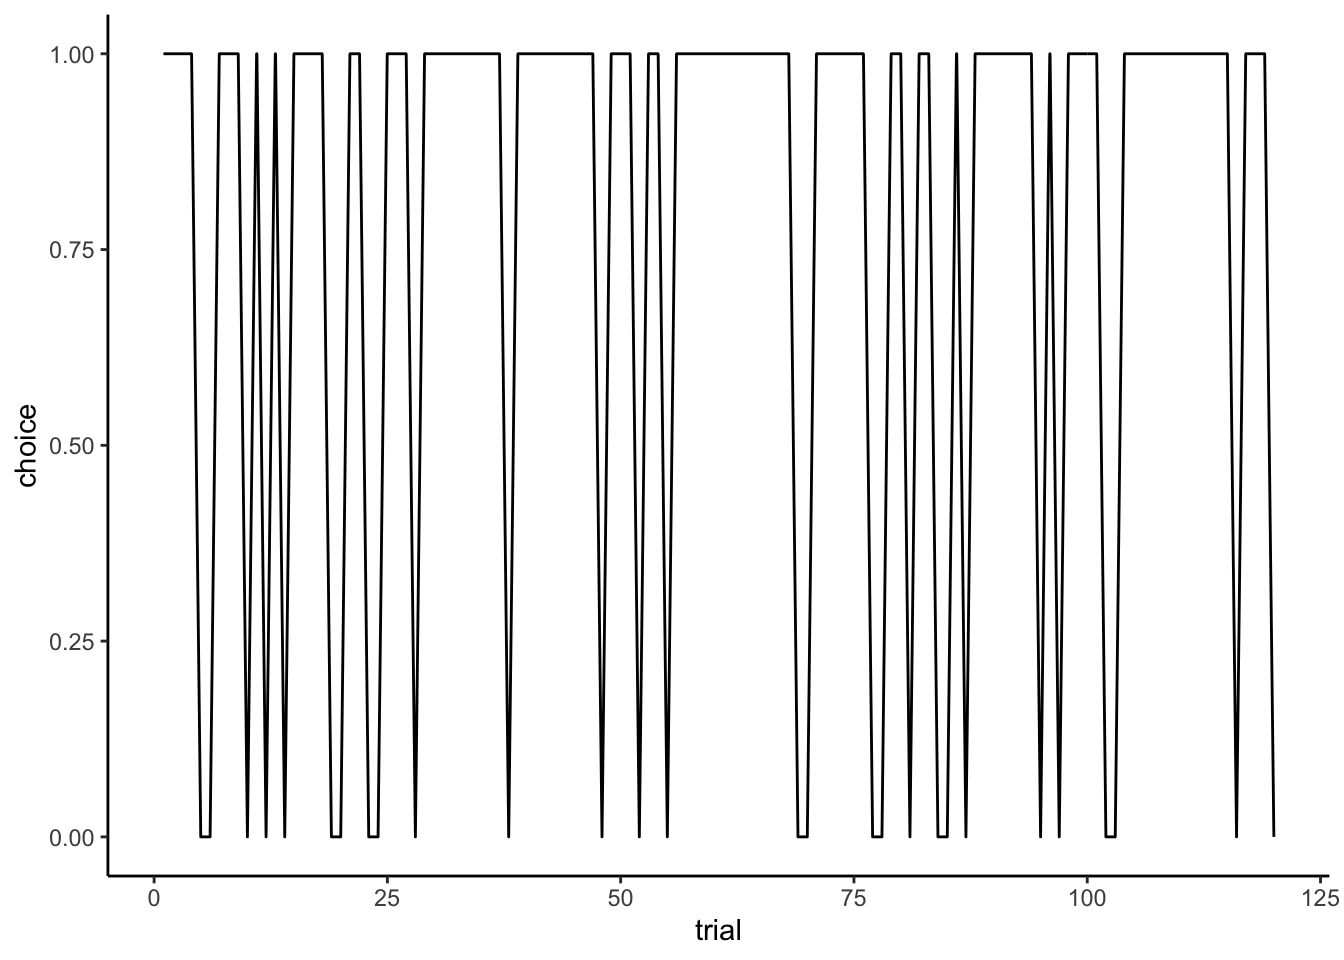
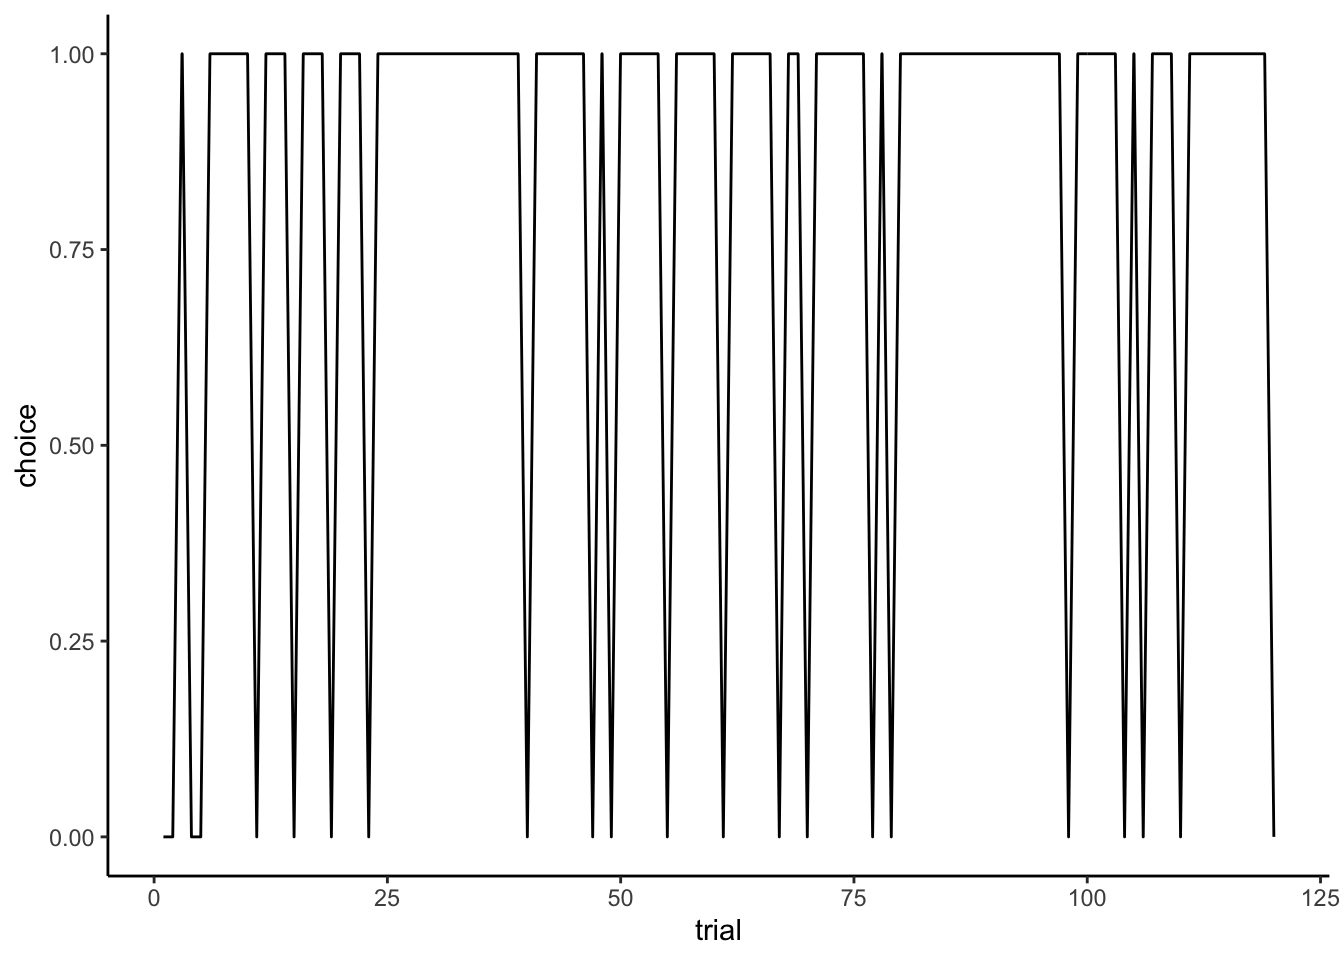
get bookdown to work?

diff --git a/docs/practical-exercise-2---from-verbal-to-formal-models.html b/docs/practical-exercise-2---from-verbal-to-formal-models.html
@@ -306,7 +306,7 @@ A random agent might be perfectly random (50% chance of choosing “head,” sam
 <span id="cb8-39"><a href="practical-exercise-2---from-verbal-to-formal-models.html#cb8-39" aria-hidden="true" tabindex="-1"></a>}</span>
 <span id="cb8-40"><a href="practical-exercise-2---from-verbal-to-formal-models.html#cb8-40" aria-hidden="true" tabindex="-1"></a></span>
 <span id="cb8-41"><a href="practical-exercise-2---from-verbal-to-formal-models.html#cb8-41" aria-hidden="true" tabindex="-1"></a><span class="fu">sum</span>(Self <span class="sc">==</span> Other)</span></code></pre></div>
-<pre><code>## [1] 83</code></pre>
+<pre><code>## [1] 76</code></pre>
 <div class="sourceCode" id="cb10"><pre class="sourceCode r"><code class="sourceCode r"><span id="cb10-1"><a href="practical-exercise-2---from-verbal-to-formal-models.html#cb10-1" aria-hidden="true" tabindex="-1"></a>df <span class="ot">&lt;-</span> <span class="fu">tibble</span>(Self, Other, <span class="at">trial =</span> <span class="fu">seq</span>(trials), <span class="at">Feedback =</span> <span class="fu">as.numeric</span>(Self<span class="sc">==</span>Other))</span>
 <span id="cb10-2"><a href="practical-exercise-2---from-verbal-to-formal-models.html#cb10-2" aria-hidden="true" tabindex="-1"></a></span>
 <span id="cb10-3"><a href="practical-exercise-2---from-verbal-to-formal-models.html#cb10-3" aria-hidden="true" tabindex="-1"></a><span class="fu">ggplot</span>(df) <span class="sc">+</span> <span class="fu">theme_classic</span>() <span class="sc">+</span></span>
@@ -364,9 +364,29 @@ A random agent might be perfectly random (50% chance of choosing “head,” sam
 <div class="sourceCode" id="cb18"><pre class="sourceCode r"><code class="sourceCode r"><span id="cb18-1"><a href="practical-exercise-2---from-verbal-to-formal-models.html#cb18-1" aria-hidden="true" tabindex="-1"></a>trials <span class="ot">=</span> <span class="dv">120</span></span>
 <span id="cb18-2"><a href="practical-exercise-2---from-verbal-to-formal-models.html#cb18-2" aria-hidden="true" tabindex="-1"></a>agents <span class="ot">=</span> <span class="dv">100</span></span>
 <span id="cb18-3"><a href="practical-exercise-2---from-verbal-to-formal-models.html#cb18-3" aria-hidden="true" tabindex="-1"></a></span>
-<span id="cb18-4"><a href="practical-exercise-2---from-verbal-to-formal-models.html#cb18-4" aria-hidden="true" tabindex="-1"></a><span class="cf">for</span> (agent <span class="cf">in</span> <span class="fu">seq</span>(agents)){</span>
-<span id="cb18-5"><a href="practical-exercise-2---from-verbal-to-formal-models.html#cb18-5" aria-hidden="true" tabindex="-1"></a>  </span>
-<span id="cb18-6"><a href="practical-exercise-2---from-verbal-to-formal-models.html#cb18-6" aria-hidden="true" tabindex="-1"></a>}</span></code></pre></div>
+<span id="cb18-4"><a href="practical-exercise-2---from-verbal-to-formal-models.html#cb18-4" aria-hidden="true" tabindex="-1"></a><span class="cf">for</span> (rate <span class="cf">in</span> <span class="fu">seq</span>(<span class="at">from=</span><span class="fl">0.5</span>, <span class="at">to=</span><span class="dv">1</span>, <span class="at">by=</span><span class="fl">0.05</span>)){</span>
+<span id="cb18-5"><a href="practical-exercise-2---from-verbal-to-formal-models.html#cb18-5" aria-hidden="true" tabindex="-1"></a></span>
+<span id="cb18-6"><a href="practical-exercise-2---from-verbal-to-formal-models.html#cb18-6" aria-hidden="true" tabindex="-1"></a><span class="cf">for</span> (agent <span class="cf">in</span> <span class="fu">seq</span>(agents)){</span>
+<span id="cb18-7"><a href="practical-exercise-2---from-verbal-to-formal-models.html#cb18-7" aria-hidden="true" tabindex="-1"></a>  Self <span class="ot">&lt;-</span> <span class="fu">rep</span>(<span class="cn">NA</span>, trials)</span>
+<span id="cb18-8"><a href="practical-exercise-2---from-verbal-to-formal-models.html#cb18-8" aria-hidden="true" tabindex="-1"></a>  Other <span class="ot">&lt;-</span> <span class="fu">rep</span>(<span class="cn">NA</span>, trials)</span>
+<span id="cb18-9"><a href="practical-exercise-2---from-verbal-to-formal-models.html#cb18-9" aria-hidden="true" tabindex="-1"></a>  </span>
+<span id="cb18-10"><a href="practical-exercise-2---from-verbal-to-formal-models.html#cb18-10" aria-hidden="true" tabindex="-1"></a>  Self[<span class="dv">1</span>] <span class="ot">&lt;-</span> <span class="fu">RandomAgent_f</span>(<span class="dv">1</span>, <span class="fl">0.5</span>)</span>
+<span id="cb18-11"><a href="practical-exercise-2---from-verbal-to-formal-models.html#cb18-11" aria-hidden="true" tabindex="-1"></a>  Other <span class="ot">&lt;-</span> <span class="fu">RandomAgent_f</span>(<span class="fu">seq</span>(trials), rate)</span>
+<span id="cb18-12"><a href="practical-exercise-2---from-verbal-to-formal-models.html#cb18-12" aria-hidden="true" tabindex="-1"></a>  </span>
+<span id="cb18-13"><a href="practical-exercise-2---from-verbal-to-formal-models.html#cb18-13" aria-hidden="true" tabindex="-1"></a>  </span>
+<span id="cb18-14"><a href="practical-exercise-2---from-verbal-to-formal-models.html#cb18-14" aria-hidden="true" tabindex="-1"></a>  <span class="cf">for</span> (i <span class="cf">in</span> <span class="dv">2</span><span class="sc">:</span>trials){</span>
+<span id="cb18-15"><a href="practical-exercise-2---from-verbal-to-formal-models.html#cb18-15" aria-hidden="true" tabindex="-1"></a>    <span class="cf">if</span> (Self[i<span class="dv">-1</span>] <span class="sc">==</span> Other[i<span class="dv">-1</span>]){</span>
+<span id="cb18-16"><a href="practical-exercise-2---from-verbal-to-formal-models.html#cb18-16" aria-hidden="true" tabindex="-1"></a>      Feedback <span class="ot">=</span> <span class="dv">1</span></span>
+<span id="cb18-17"><a href="practical-exercise-2---from-verbal-to-formal-models.html#cb18-17" aria-hidden="true" tabindex="-1"></a>    } <span class="cf">else</span> {Feedback <span class="ot">=</span> <span class="dv">0</span>}</span>
+<span id="cb18-18"><a href="practical-exercise-2---from-verbal-to-formal-models.html#cb18-18" aria-hidden="true" tabindex="-1"></a>    Self[i] <span class="ot">&lt;-</span> <span class="fu">WSLSAgent_f</span>(Self[i<span class="dv">-1</span>], Feedback)</span>
+<span id="cb18-19"><a href="practical-exercise-2---from-verbal-to-formal-models.html#cb18-19" aria-hidden="true" tabindex="-1"></a>  }</span>
+<span id="cb18-20"><a href="practical-exercise-2---from-verbal-to-formal-models.html#cb18-20" aria-hidden="true" tabindex="-1"></a>  </span>
+<span id="cb18-21"><a href="practical-exercise-2---from-verbal-to-formal-models.html#cb18-21" aria-hidden="true" tabindex="-1"></a>  <span class="fu">sum</span>(Self <span class="sc">==</span> Other)</span>
+<span id="cb18-22"><a href="practical-exercise-2---from-verbal-to-formal-models.html#cb18-22" aria-hidden="true" tabindex="-1"></a>  </span>
+<span id="cb18-23"><a href="practical-exercise-2---from-verbal-to-formal-models.html#cb18-23" aria-hidden="true" tabindex="-1"></a>  temp <span class="ot">&lt;-</span> <span class="fu">tibble</span>(Self, Other, <span class="at">trial =</span> <span class="fu">seq</span>(trials), <span class="at">Feedback =</span> <span class="fu">as.numeric</span>(Self<span class="sc">==</span>Other), agent, rate)</span>
+<span id="cb18-24"><a href="practical-exercise-2---from-verbal-to-formal-models.html#cb18-24" aria-hidden="true" tabindex="-1"></a>  </span>
+<span id="cb18-25"><a href="practical-exercise-2---from-verbal-to-formal-models.html#cb18-25" aria-hidden="true" tabindex="-1"></a>  <span class="cf">if</span> (agent<span class="sc">==</span><span class="dv">1</span>){df <span class="ot">&lt;-</span> temp} <span class="cf">else</span> {df <span class="ot">&lt;-</span> <span class="fu">bind_rows</span>(df, temp)}</span>
+<span id="cb18-26"><a href="practical-exercise-2---from-verbal-to-formal-models.html#cb18-26" aria-hidden="true" tabindex="-1"></a>}}</span></code></pre></div>
 
 </div>
 </div>
